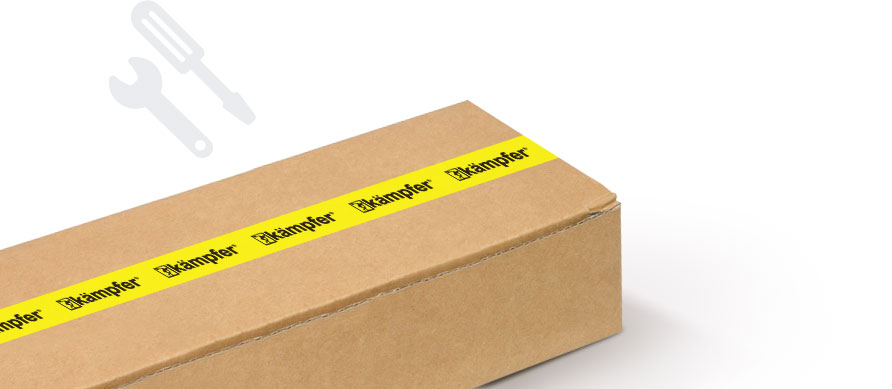
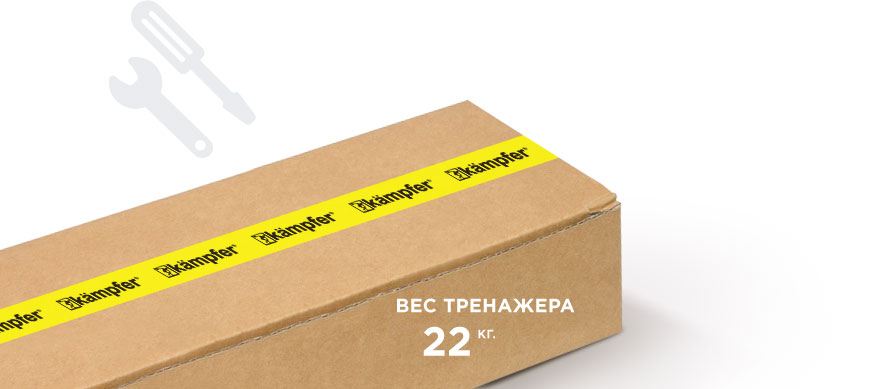
not completed yet

Changed region(s): [[0.4238, 0.7404, 0.6659, 0.8021], [0.454, 0.8329, 0.5448, 0.9254]]

diff --git a/app/css/style.css b/app/css/style.css
@@ -3,8 +3,8 @@
 }
 
 .fri-plus {
-  background-image: url('../images/icons-sb4a983bf00.png');
-  background-position: 0 -238px;
+  background-image: url('../images/icons-sb1bbe950e7.png');
+  background-position: 0 -422px;
   background-repeat: no-repeat;
   overflow: hidden;
   display: inline-block;
@@ -14,8 +14,8 @@
 }
 
 .fri-minus {
-  background-image: url('../images/icons-sb4a983bf00.png');
-  background-position: 0 -209px;
+  background-image: url('../images/icons-sb1bbe950e7.png');
+  background-position: 0 -393px;
   background-repeat: no-repeat;
   overflow: hidden;
   display: inline-block;
@@ -25,7 +25,7 @@
 }
 
 .fri-phone {
-  background-image: url('../images/icons-sb4a983bf00.png');
+  background-image: url('../images/icons-sb1bbe950e7.png');
   background-position: 0 -182px;
   background-repeat: no-repeat;
   overflow: hidden;
@@ -36,7 +36,7 @@
 }
 
 .fri-marker {
-  background-image: url('../images/icons-sb4a983bf00.png');
+  background-image: url('../images/icons-sb1bbe950e7.png');
   background-position: 0 -147px;
   background-repeat: no-repeat;
   overflow: hidden;
@@ -47,7 +47,7 @@
 }
 
 .fri-clock {
-  background-image: url('../images/icons-sb4a983bf00.png');
+  background-image: url('../images/icons-sb1bbe950e7.png');
   background-position: 0 -78px;
   background-repeat: no-repeat;
   overflow: hidden;
@@ -58,7 +58,7 @@
 }
 
 .fri-check {
-  background-image: url('../images/icons-sb4a983bf00.png');
+  background-image: url('../images/icons-sb1bbe950e7.png');
   background-position: 0 -60px;
   background-repeat: no-repeat;
   overflow: hidden;
@@ -66,6 +66,28 @@
   vertical-align: middle;
   height: 13px;
   width: 16px;
+}
+
+.fri-warning {
+  background-image: url('../images/icons-sb1bbe950e7.png');
+  background-position: 0 -451px;
+  background-repeat: no-repeat;
+  overflow: hidden;
+  display: inline-block;
+  vertical-align: middle;
+  height: 28px;
+  width: 32px;
+}
+
+.fri-keys-bg {
+  background-image: url('../images/icons-sb1bbe950e7.png');
+  background-position: 0 -209px;
+  background-repeat: no-repeat;
+  overflow: hidden;
+  display: inline-block;
+  vertical-align: middle;
+  height: 179px;
+  width: 179px;
 }
 
 strong {
@@ -210,7 +232,7 @@ body {
 }
 
 .uk-slidenav-previous {
-  background-image: url('../images/icons-sb4a983bf00.png');
+  background-image: url('../images/icons-sb1bbe950e7.png');
   background-position: 0 0;
   background-repeat: no-repeat;
   overflow: hidden;
@@ -225,7 +247,7 @@ body {
 }
 
 .uk-slidenav-next {
-  background-image: url('../images/icons-sb4a983bf00.png');
+  background-image: url('../images/icons-sb1bbe950e7.png');
   background-position: 0 -30px;
   background-repeat: no-repeat;
   overflow: hidden;
@@ -266,7 +288,7 @@ body {
 
 .uk-close {
   opacity: 1;
-  background-image: url('../images/icons-sb4a983bf00.png');
+  background-image: url('../images/icons-sb1bbe950e7.png');
   background-position: 0 -112px;
   background-repeat: no-repeat;
   overflow: hidden;
@@ -337,6 +359,16 @@ body {
 }
 .section__imgs_single:nth-child(2n) {
   margin: 0 0 10px 5px;
+}
+.section__right_imgs {
+  font-size: 0;
+}
+.section__right_imgs > img {
+  font-size: 16px;
+  max-width: calc(50% - 20px);
+  margin: 10px 10px 10px 0;
+  width: 100%;
+  display: inline-block;
 }
 
 .large-title {
@@ -479,6 +511,13 @@ body {
   background: url("../images/wcs-bg.jpg");
   background-size: cover;
   background-position: 100% 100%;
+  position: relative;
+}
+.wcs-wrap .absolute-img {
+  position: absolute;
+  right: 0;
+  top: 0;
+  max-width: 200px;
 }
 
 .wc-wrap {
@@ -523,6 +562,16 @@ body {
 .wc__infos > div:nth-child(2) {
   width: 40%;
   margin-top: 52px;
+}
+.wc__infos > div p {
+  overflow: hidden;
+}
+.wc__infos > div p i {
+  float: left;
+}
+.wc__infos > div p span {
+  float: right;
+  width: calc(100% - 50px);
 }
 
 .wor__img {
@@ -1165,6 +1214,32 @@ body {
   display: none;
 }
 
+.economy-b {
+  color: #fff;
+}
+.economy-b:before {
+  content: "";
+  vertical-align: middle;
+  display: inline-block;
+  height: 100%;
+}
+.economy-b p {
+  display: inline-block;
+  vertical-align: middle;
+  font-size: 19px;
+  font-family: "GothamPro-Bold", serif;
+  margin: 0;
+  padding: 10px 0 0 0;
+}
+.economy-b p strong {
+  display: block;
+  font-size: 30px;
+  margin: 20px 0 5px 0;
+}
+.economy-b p strong span {
+  font-size: 12px;
+}
+
 @media only screen and (max-width: 1074px) {
   .uk-modal-close {
     position: absolute;
@@ -1331,6 +1406,14 @@ body {
   .b_mInfo_delivery > img {
     margin: 20px auto 0;
     display: block;
+  }
+
+  .wcs-wrap .absolute-img {
+    display: none;
+  }
+
+  .economy-b {
+    display: none;
   }
 }
 @media only screen and (max-width: 501px) {

diff --git a/app/sass/style.sass b/app/sass/style.sass
@@ -224,6 +224,15 @@ body
       &:nth-child(2n)
         margin: 0 0 10px 5px
 
+  &__right_imgs
+    font-size: 0
+    > img
+      font-size: 16px
+      max-width: calc(50% - 20px)
+      margin: 10px 10px 10px 0
+      width: 100%
+      display: inline-block
+
 .large-title
   font-size: 33px
   font-family: 'Affect-Bold', serif
@@ -364,6 +373,13 @@ body
   background: url("../images/wcs-bg.jpg")
   background-size: cover
   background-position: 100% 100%
+  position: relative
+
+  .absolute-img
+    position: absolute
+    right: 0
+    top: 0
+    max-width: 200px
 
 
 .wc-wrap
@@ -407,6 +423,15 @@ body
       &:nth-child(2)
         width: 40%
         margin-top: 52px
+
+      p
+        overflow: hidden
+
+        i
+          float: left
+        span
+          float: right
+          width: calc(100% - 50px)
 
 
 .wor
@@ -1055,6 +1080,31 @@ body
         &.uk-active
           display: none
 
+.economy-b
+  color: $white
+
+  &:before
+    content: ''
+    vertical-align: middle
+    display: inline-block
+    height: 100%
+
+  p
+    display: inline-block
+    vertical-align: middle
+    font-size: 19px
+    font-family: 'GothamPro-Bold', serif
+    margin: 0
+    padding: 10px 0 0 0
+
+    strong
+      display: block
+      font-size: 30px
+      margin: 20px 0 5px 0
+
+      span
+        font-size: 12px
+
 // Desktops and Tablets landscape mode
 @media only screen and (max-width: 1074px)
   .uk-modal-close
@@ -1113,7 +1163,6 @@ body
         width: 100%!important
         margin: 40px 0 0 0!important
         padding: 0!important
-
 
   .b_footer
 
@@ -1216,6 +1265,14 @@ body
   .b_mInfo_delivery > img
     margin: 20px auto 0
     display: block
+
+  .wcs-wrap
+
+    .absolute-img
+      display: none
+
+  .economy-b
+    display: none
 
 
 @media only screen and (max-width: 501px)

diff --git a/app/sass/_icons.sass b/app/sass/_icons.sass
@@ -18,3 +18,9 @@
 
 .fri-check
   +sprite(check)
+
+.fri-warning
+  +sprite(warning)
+
+.fri-keys-bg
+  +sprite(keys-bg)
